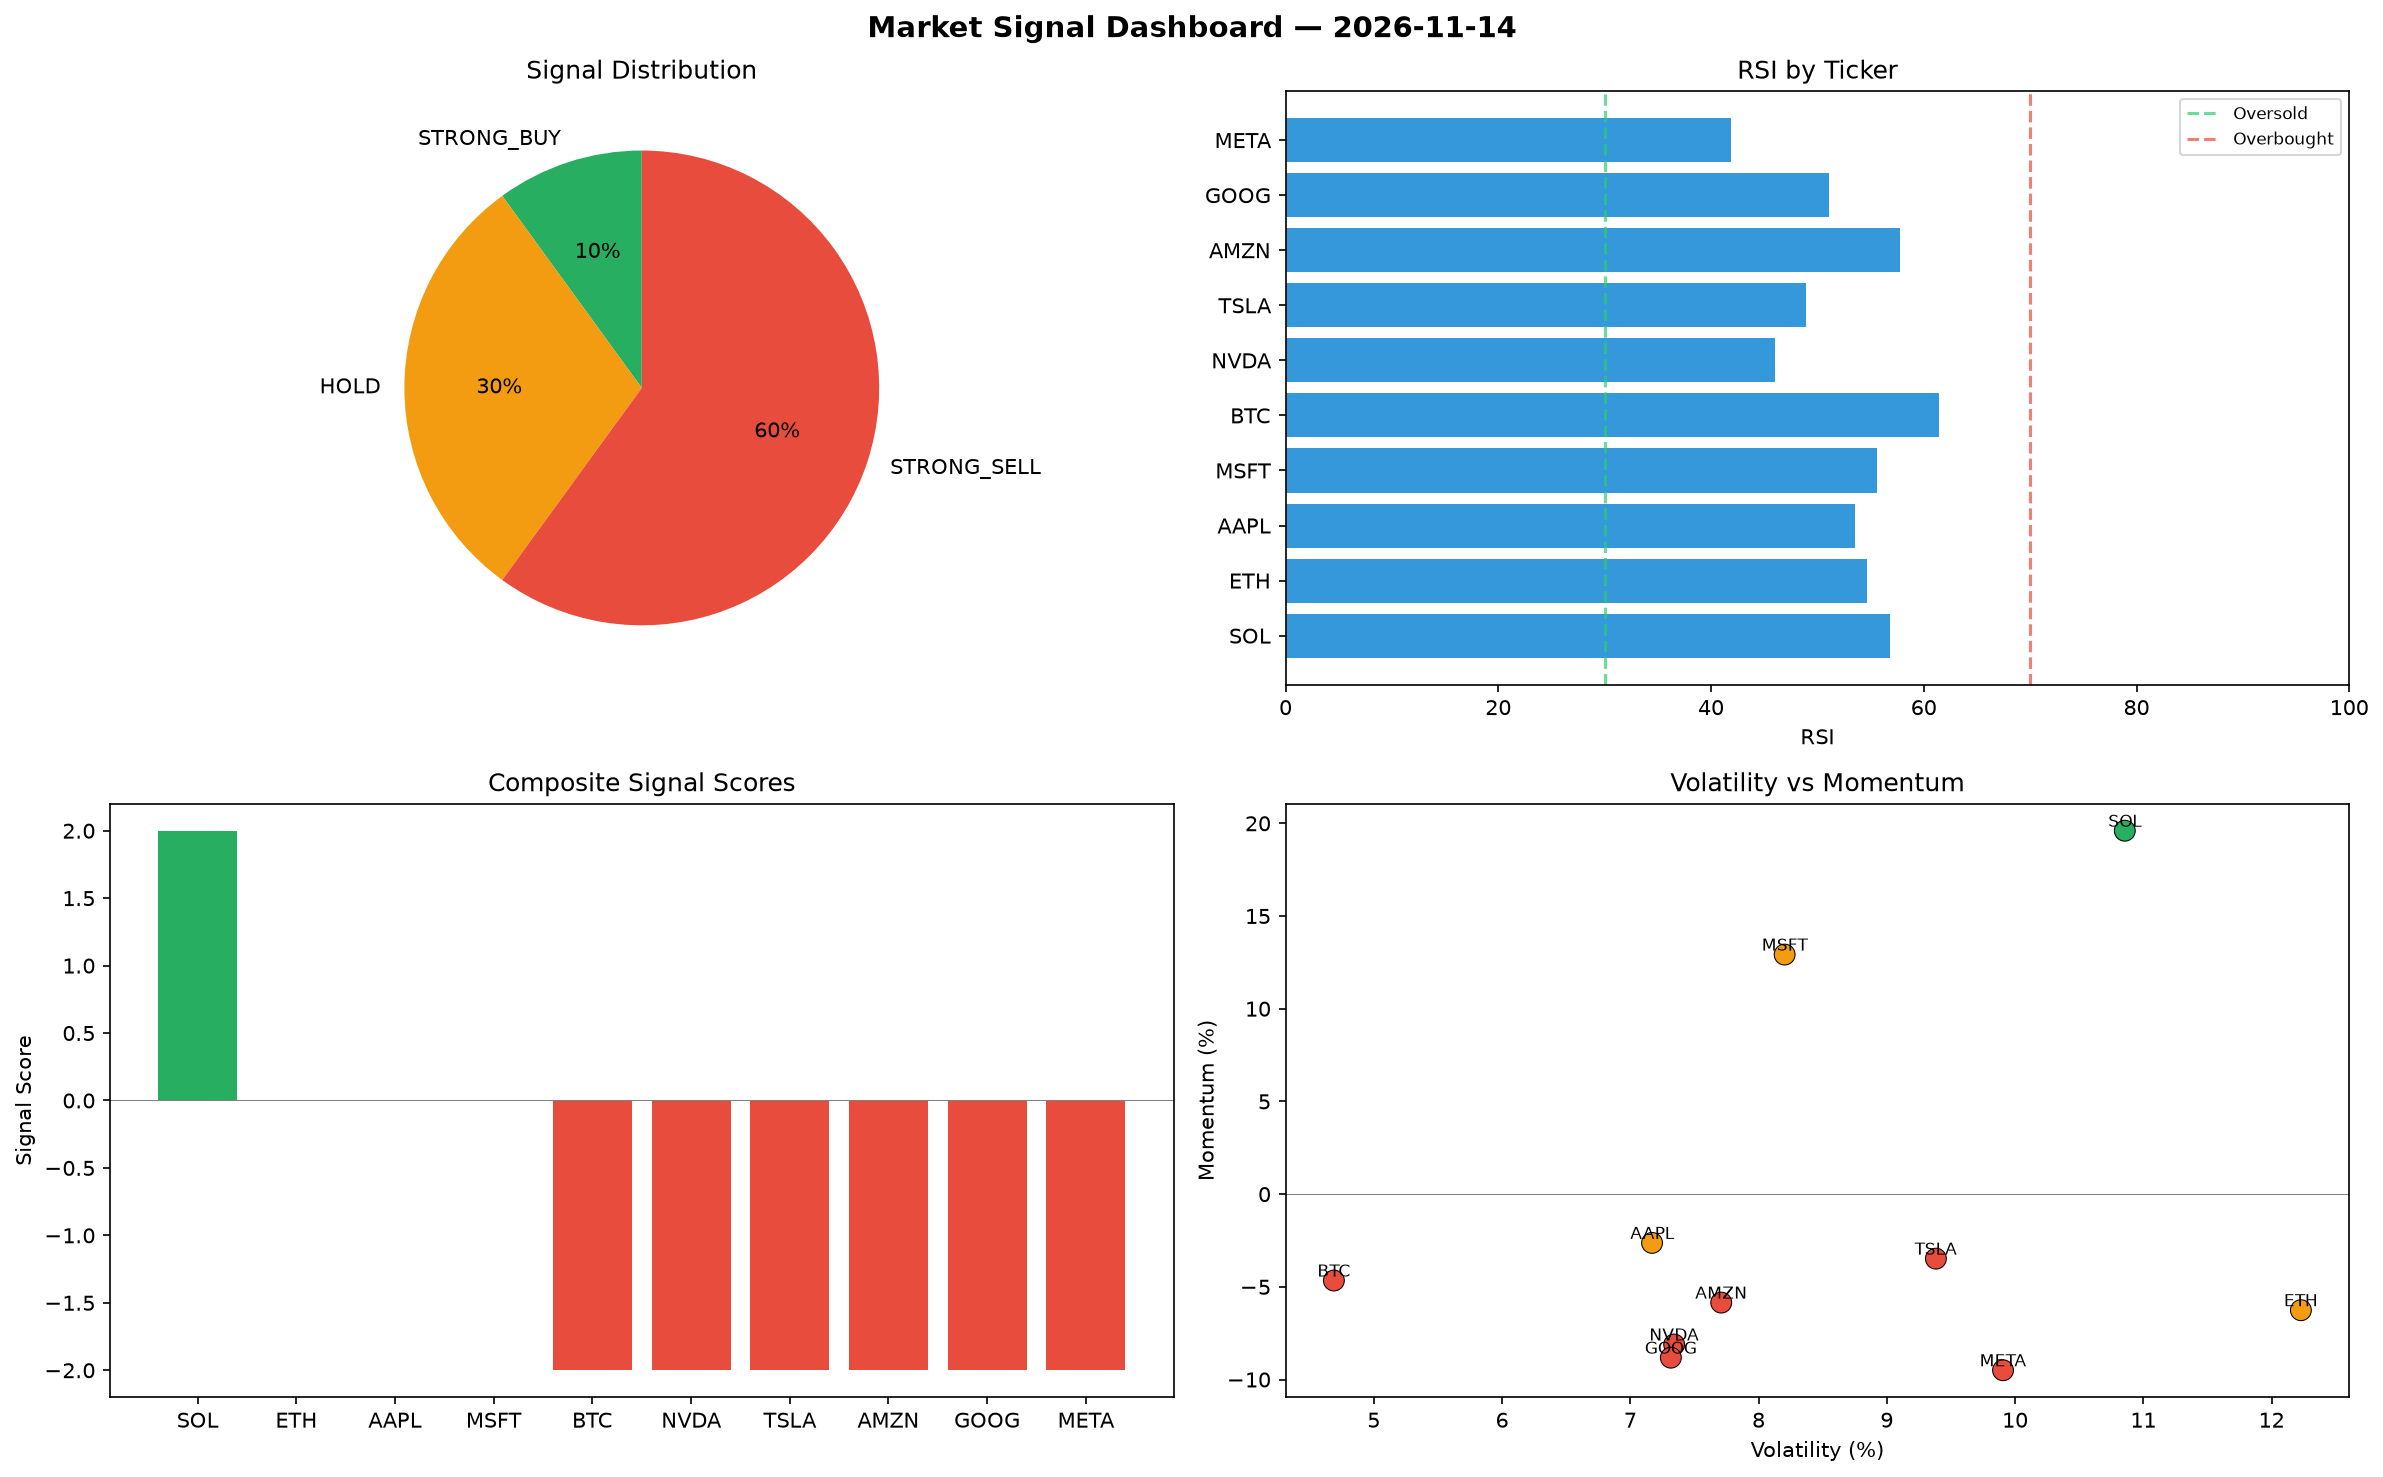
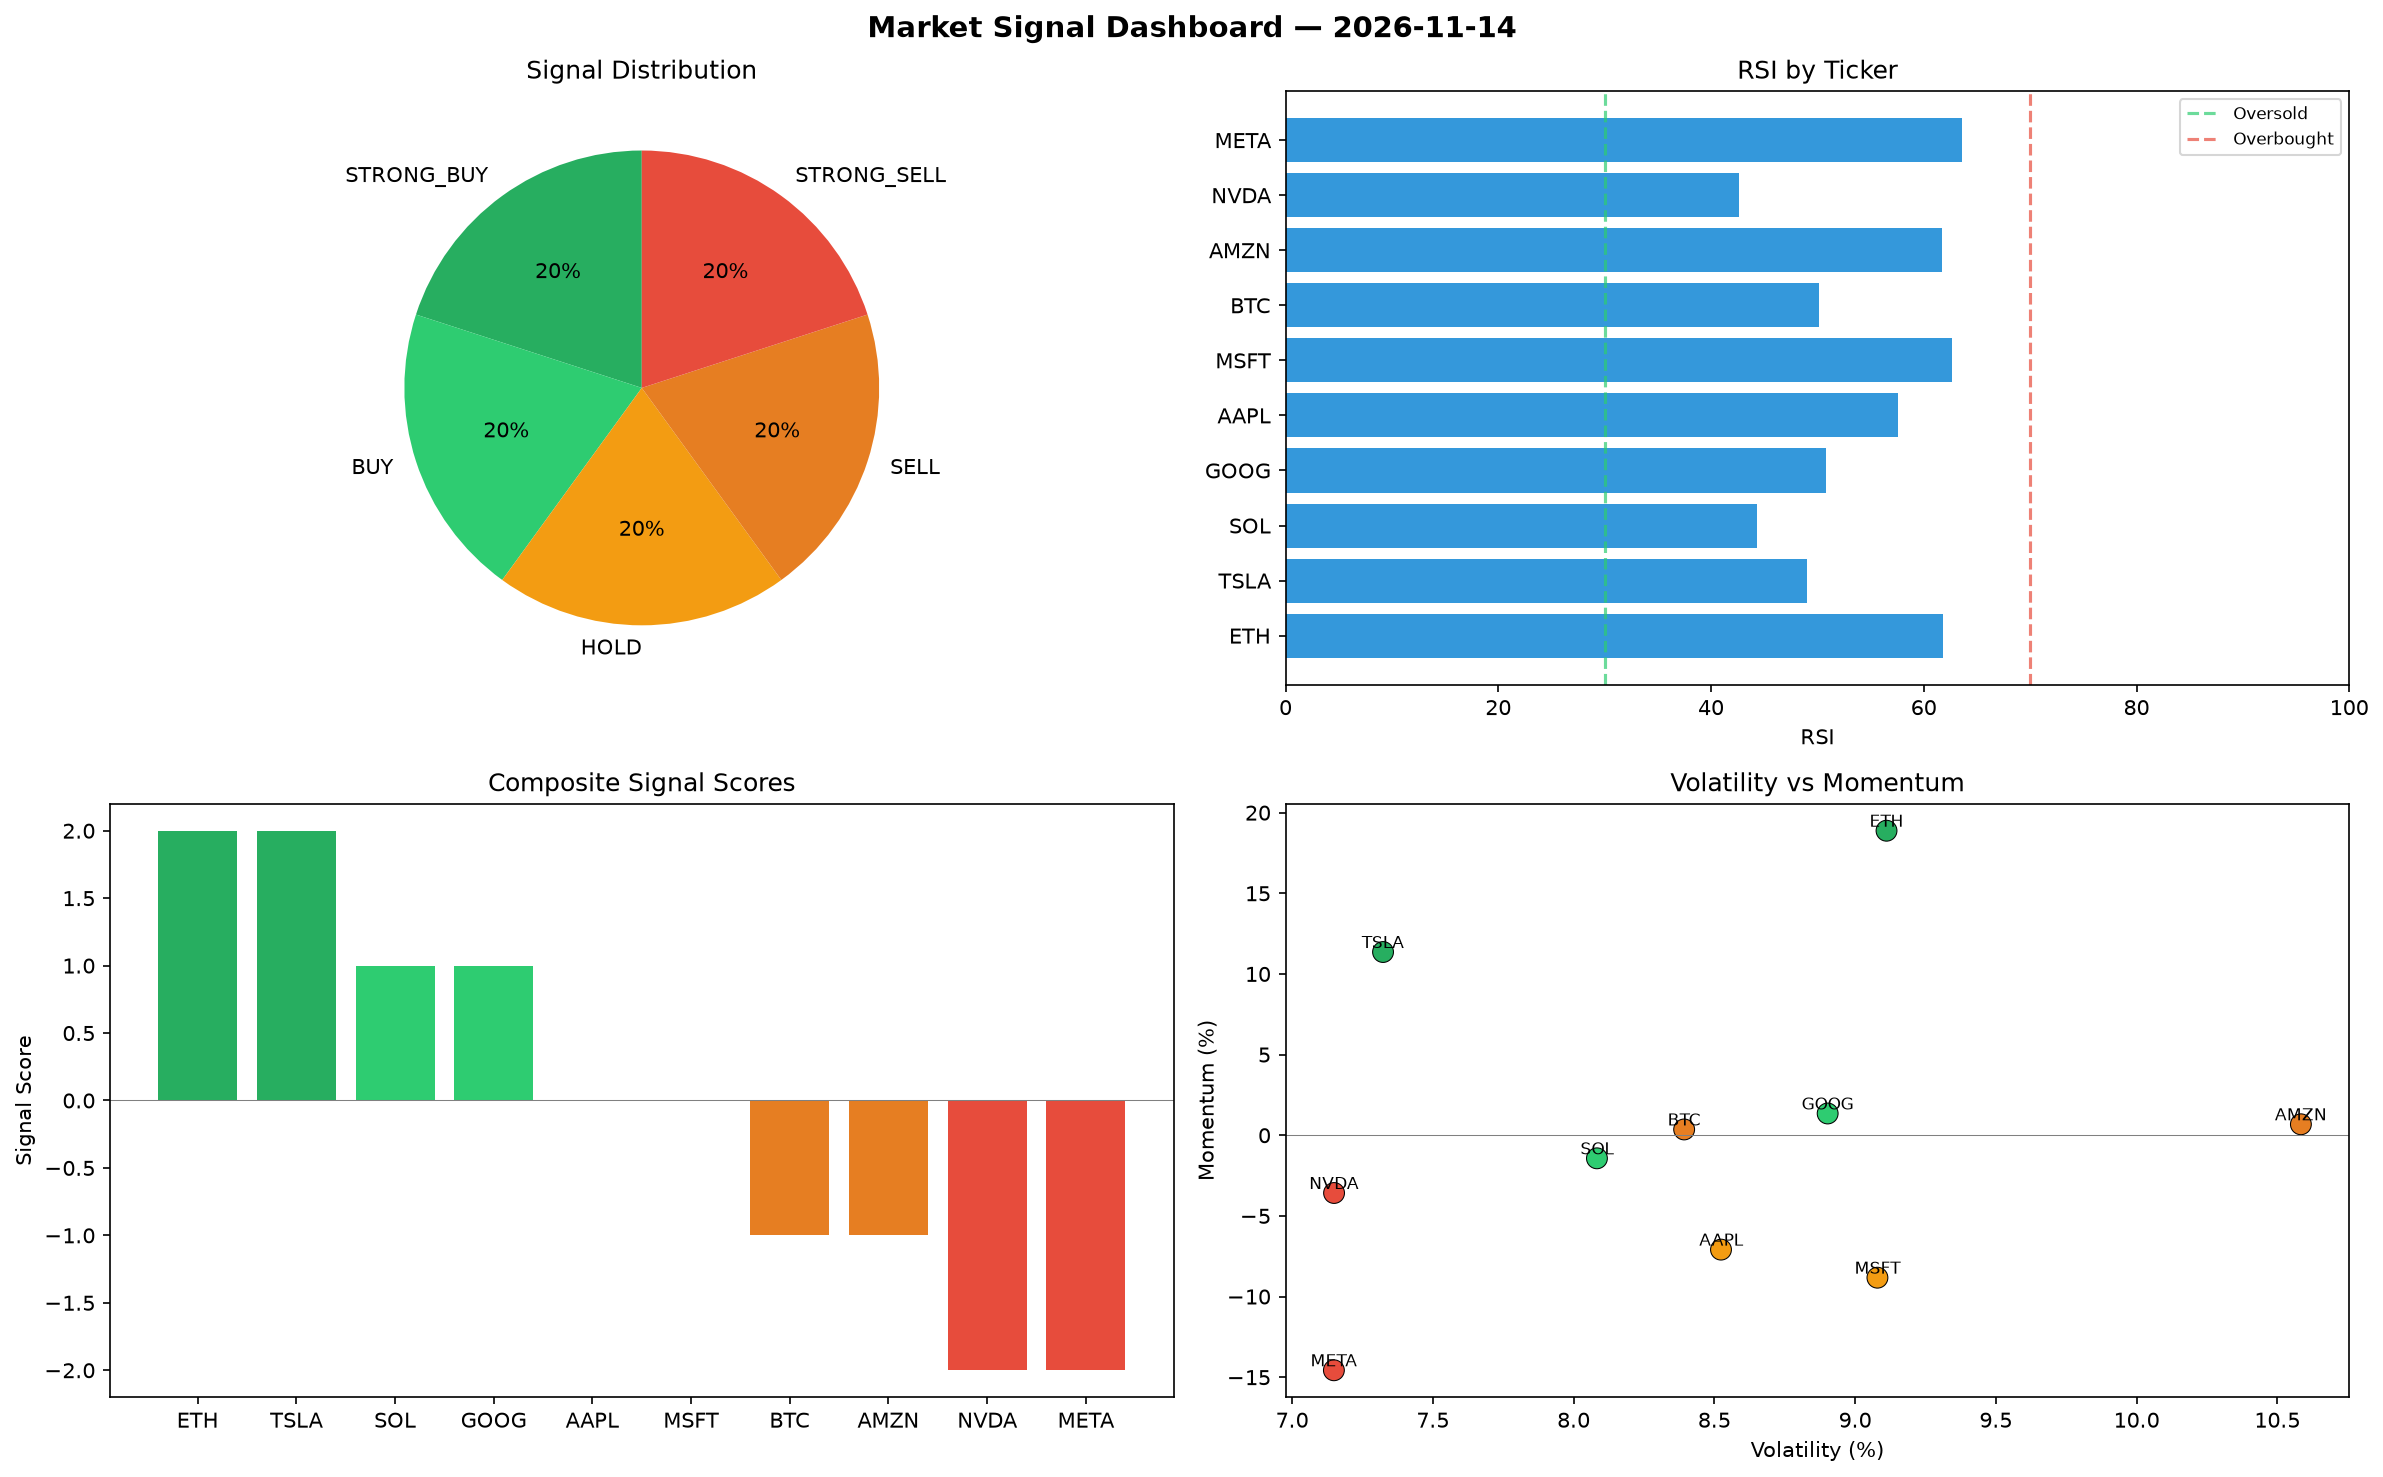
automated-bots: market signals 2026-11-14T09:14

diff --git a/logs/2026-11-14.md b/logs/2026-11-14.md
@@ -1,6 +1,6 @@
 # Market Signal Report — 2026-11-14
 
-**Run ID:** `31e3957b30` | **Buy:** 1 | **Sell:** 6 | **Hold:** 3
+**Run ID:** `f6173281ed` | **Buy:** 4 | **Sell:** 4 | **Hold:** 2
 
 ![Dashboard](2026-11-14_dashboard.png)
 
@@ -8,28 +8,28 @@
 
 | Ticker | Price | Signal | Score | RSI | Momentum | Confidence |
 |--------|-------|--------|-------|-----|----------|------------|
-| SOL | $5166.1 | **STRONG_BUY** | 2 | 56.79 | 0.196 | 0.5 |
-| ETH | $2463.18 | **HOLD** | 0 | 54.67 | -0.0626 | 0.0 |
-| AAPL | $1188.94 | **HOLD** | 0 | 53.57 | -0.0263 | 0.0 |
-| MSFT | $598.37 | **HOLD** | 0 | 55.6 | 0.1292 | 0.0 |
-| BTC | $4866.65 | **STRONG_SELL** | -2 | 61.45 | -0.0466 | 0.5 |
-| NVDA | $484.18 | **STRONG_SELL** | -2 | 46.04 | -0.0811 | 0.5 |
-| TSLA | $3218.91 | **STRONG_SELL** | -2 | 48.95 | -0.0348 | 0.5 |
-| AMZN | $649.0 | **STRONG_SELL** | -2 | 57.76 | -0.0585 | 0.5 |
-| GOOG | $1872.34 | **STRONG_SELL** | -2 | 51.08 | -0.0882 | 0.5 |
-| META | $1929.36 | **STRONG_SELL** | -2 | 41.89 | -0.095 | 0.5 |
+| ETH | $5752.87 | **STRONG_BUY** | 2 | 61.8 | 0.1888 | 0.5 |
+| TSLA | $5060.98 | **STRONG_BUY** | 2 | 49.02 | 0.1136 | 0.5 |
+| SOL | $589.28 | **BUY** | 1 | 44.3 | -0.0143 | 0.25 |
+| GOOG | $215.47 | **BUY** | 1 | 50.8 | 0.0135 | 0.25 |
+| AAPL | $4501.25 | **HOLD** | 0 | 57.61 | -0.0709 | 0.0 |
+| MSFT | $1384.12 | **HOLD** | 0 | 62.62 | -0.0883 | 0.0 |
+| BTC | $4500.78 | **SELL** | -1 | 50.16 | 0.0036 | 0.25 |
+| AMZN | $3882.14 | **SELL** | -1 | 61.67 | 0.0068 | 0.25 |
+| NVDA | $3098.08 | **STRONG_SELL** | -2 | 42.63 | -0.0358 | 0.5 |
+| META | $2854.78 | **STRONG_SELL** | -2 | 63.59 | -0.1457 | 0.5 |
 
 ## Delta vs Yesterday
 
 | Ticker | Today | Yesterday | Price Change | Signal Changed |
 |--------|-------|-----------|-------------|----------------|
-| SOL | STRONG_BUY | STRONG_SELL | 📈 45.09% | ⚠ YES |
-| ETH | HOLD | STRONG_SELL | 📉 -5.02% | ⚠ YES |
-| AAPL | HOLD | STRONG_BUY | 📉 -62.46% | ⚠ YES |
-| MSFT | HOLD | STRONG_SELL | 📉 -79.7% | ⚠ YES |
-| BTC | STRONG_SELL | HOLD | 📈 29.99% | ⚠ YES |
-| NVDA | STRONG_SELL | STRONG_BUY | 📉 -86.65% | ⚠ YES |
-| TSLA | STRONG_SELL | SELL | 📈 68.43% | ⚠ YES |
-| AMZN | STRONG_SELL | SELL | 📉 -71.83% | ⚠ YES |
-| GOOG | STRONG_SELL | HOLD | 📉 -45.63% | ⚠ YES |
-| META | STRONG_SELL | STRONG_BUY | 📈 299.18% | ⚠ YES |
+| ETH | STRONG_BUY | STRONG_SELL | 📈 121.83% | ⚠ YES |
+| TSLA | STRONG_BUY | SELL | 📈 164.82% | ⚠ YES |
+| SOL | BUY | STRONG_SELL | 📉 -83.45% | ⚠ YES |
+| GOOG | BUY | HOLD | 📉 -93.74% | ⚠ YES |
+| AAPL | HOLD | STRONG_BUY | 📈 42.11% | ⚠ YES |
+| MSFT | HOLD | STRONG_SELL | 📉 -53.04% | ⚠ YES |
+| BTC | SELL | HOLD | 📈 20.21% | ⚠ YES |
+| AMZN | SELL | SELL | 📈 68.5% | — |
+| NVDA | STRONG_SELL | STRONG_BUY | 📉 -14.55% | ⚠ YES |
+| META | STRONG_SELL | STRONG_BUY | 📈 490.65% | ⚠ YES |
